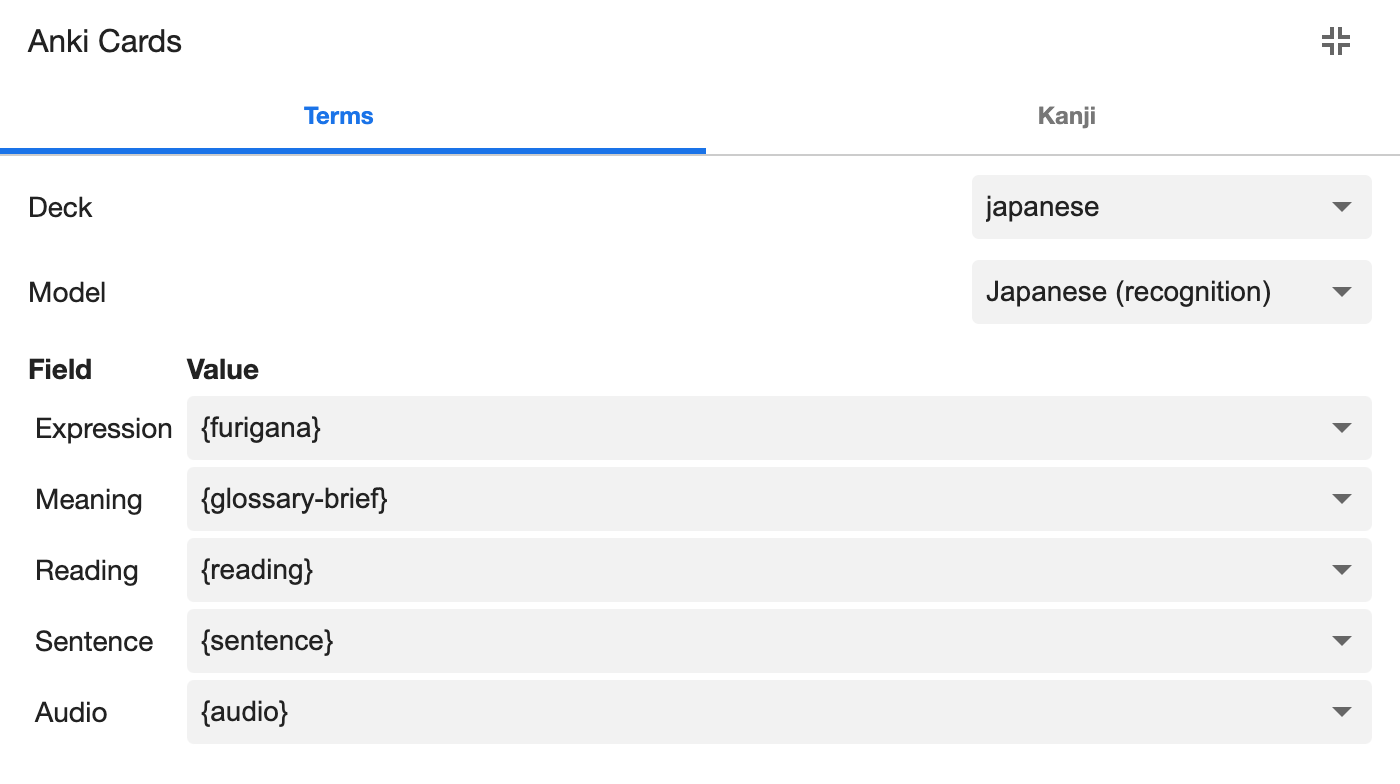
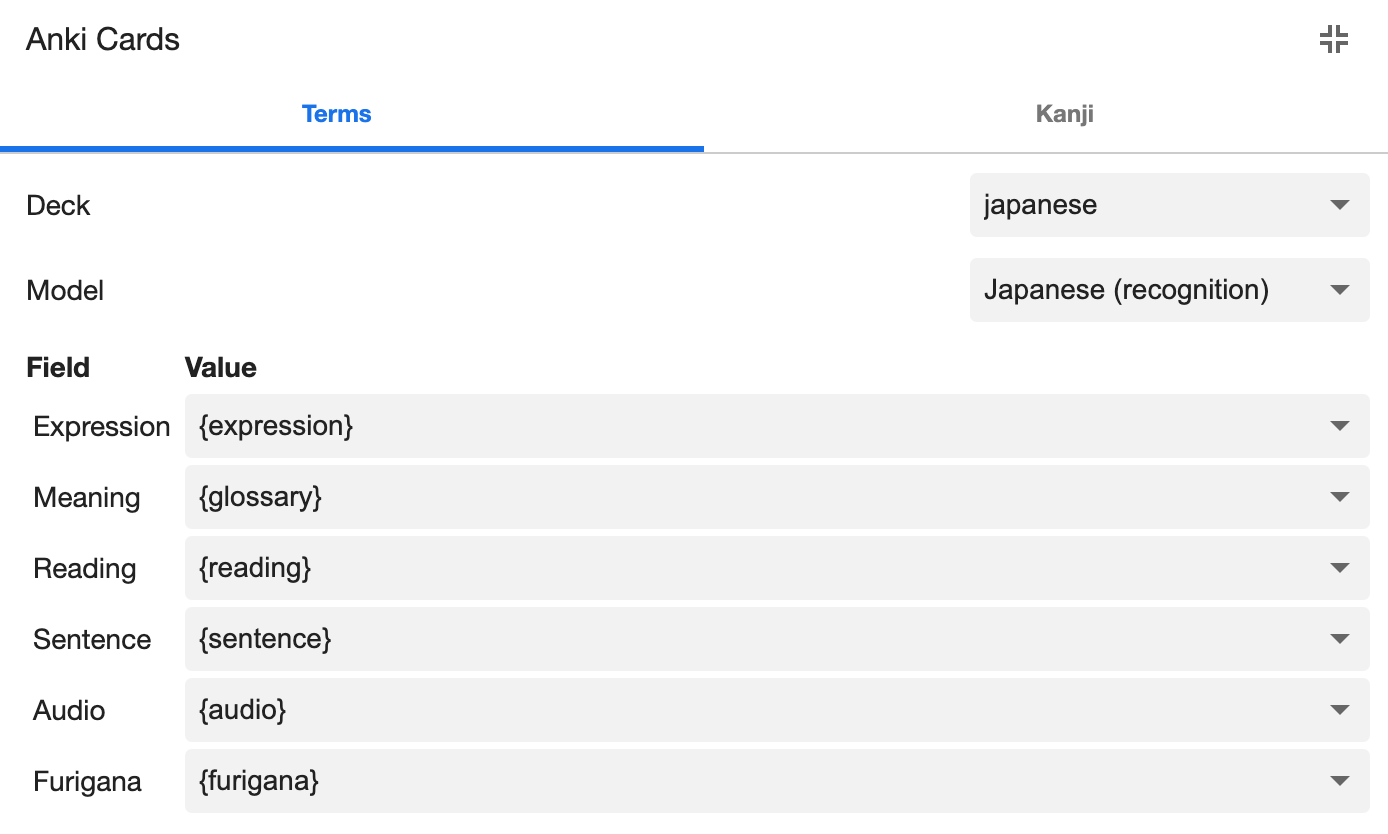
xy

diff --git a/blog/anki-tools-for-language-learning.html b/blog/anki-tools-for-language-learning.html
@@ -4,7 +4,7 @@
 <html xmlns="http://www.w3.org/1999/xhtml" lang="en" xml:lang="en">
 <head>
 <title>语言学习之Anki 工具篇</title>
-<!-- 2022-04-25 Mon 15:00 -->
+<!-- 2022-04-25 Mon 15:17 -->
 <meta  http-equiv="Content-Type" content="text/html;charset=utf-8" />
 <meta  name="generator" content="Org-mode" />
 <meta  name="author" content="Siqing Mu" />
@@ -31,7 +31,7 @@
 <ol class="org-ol">
 <li>Tools -&gt; Manage Note Types -&gt; Add -&gt; Japanese(recognition)
 </li>
-<li>Japanese(recognition) -&gt; Fields -&gt; Add -&gt; Sentence / Audio
+<li>Japanese(recognition) -&gt; Fields -&gt; Add -&gt; Sentence / Audio / Furigana
 </li>
 <li>Japanese(recognition) -&gt; Cards -&gt; Back Template
 </li>
@@ -39,7 +39,7 @@
 <pre class="example">
 &lt;hr id=answer&gt;
 
-&lt;div class=jp&gt; {{Expression}} {{Audio}} &lt;/div&gt;&lt;br&gt;
+&lt;div class=jp&gt; {{Furigana}} {{Audio}} &lt;/div&gt;&lt;br&gt;
 {{Meaning}}
 </pre>
 <p>

diff --git a/blog/index.html b/blog/index.html
@@ -4,7 +4,7 @@
 <html xmlns="http://www.w3.org/1999/xhtml" lang="en" xml:lang="en">
 <head>
 <title>Siqing's Blog</title>
-<!-- 2022-04-25 Mon 15:00 -->
+<!-- 2022-04-25 Mon 15:17 -->
 <meta  http-equiv="Content-Type" content="text/html;charset=utf-8" />
 <meta  name="generator" content="Org-mode" />
 <meta  name="author" content="Siqing Mu" />
